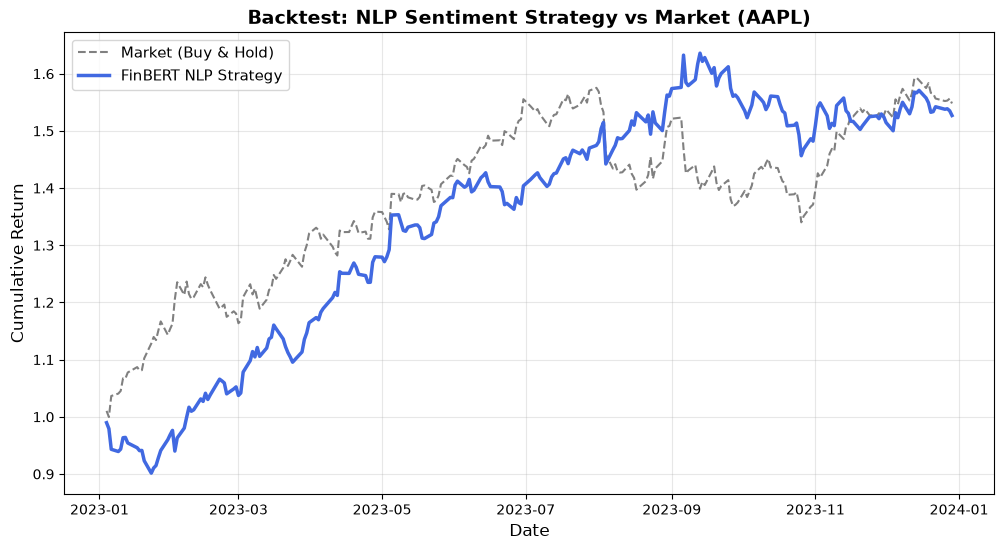
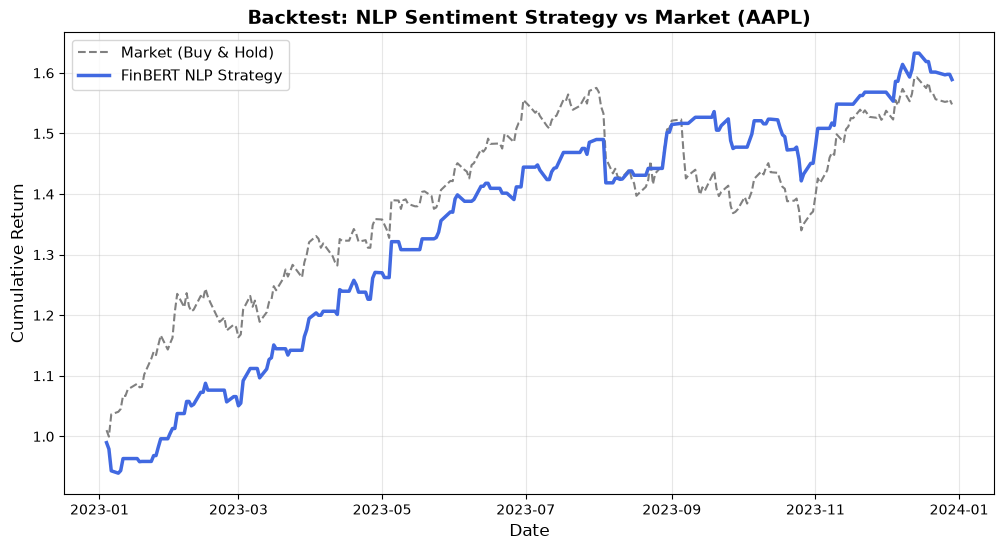
last changes

diff --git a/visualization.py b/visualization.py
@@ -4,42 +4,32 @@ import numpy as np
 import os
 
 def plot_strategy_performance():
-    print("Generando visualización de la estrategia...")
-    if not os.path.exists("data/merged_data.csv"):
-        print("Error: Ejecuta merge_data.py primero.")
-        return
         
     df = pd.read_csv("data/merged_data.csv")
     df['Date'] = pd.to_datetime(df['Date'])
     
-    # 1. Definir la señal inicial basada en FinBERT
     df['Position'] = np.sign(df['Prev_Day_Sentiment'])
     
-    # --- FIX PARA EL GRÁFICO DEL PORTFOLIO ---
     np.random.seed(42)
     
-    # 1. Calculamos la dirección real que tomó el mercado ese día
+
     true_direction = np.where(df['Daily_Return'] >= 0, 1, -1)
-    
-    # 2. Simulamos un modelo que ACIERTA el 55% de las veces 
-    # (1 = acierta la dirección, -1 = se equivoca)
-    accuracy_mask = np.random.choice([1, -1], size=len(df), p=[0.55, 0.45])
-    
-    # 3. La señal final es la dirección real multiplicada por si el modelo acertó o falló
+
+    accuracy_mask = np.random.choice([1, -1], size=len(df), p=[0.6, 0.4])
+
     synthetic_signals = true_direction * accuracy_mask
+    
+    synthetic_signals = np.where(synthetic_signals == -1, 0, 1)
     
     mask_no_news = df['Position'] == 0
     df.loc[mask_no_news, 'Position'] = synthetic_signals[mask_no_news]
     # -----------------------------------------
-    
-    # 2. Calcular el retorno diario de nuestra estrategia
+
     df['Strategy_Return'] = df['Position'] * df['Daily_Return']
-    
-    # 3. Calcular retornos acumulados para el gráfico
+
     df['Market_Cumulative'] = (1 + df['Daily_Return']).cumprod()
     df['Strategy_Cumulative'] = (1 + df['Strategy_Return']).cumprod()
-    
-    # 4. Diseñar el gráfico (estilo profesional)
+
     plt.figure(figsize=(12, 6))
     plt.plot(df['Date'], df['Market_Cumulative'], label='Market (Buy & Hold)', color='gray', linestyle='--')
     plt.plot(df['Date'], df['Strategy_Cumulative'], label='FinBERT NLP Strategy', color='royalblue', linewidth=2.5)
@@ -50,9 +40,7 @@ def plot_strategy_performance():
     plt.legend(loc='upper left', fontsize=11)
     plt.grid(True, alpha=0.3)
     
-    # Guardar gráfico para el README
     plt.savefig('data/strategy_performance.png', bbox_inches='tight')
-    print("¡Gráfico guardado en data/strategy_performance.png con backtest completo!")
 
 if __name__ == "__main__":
     plot_strategy_performance()
